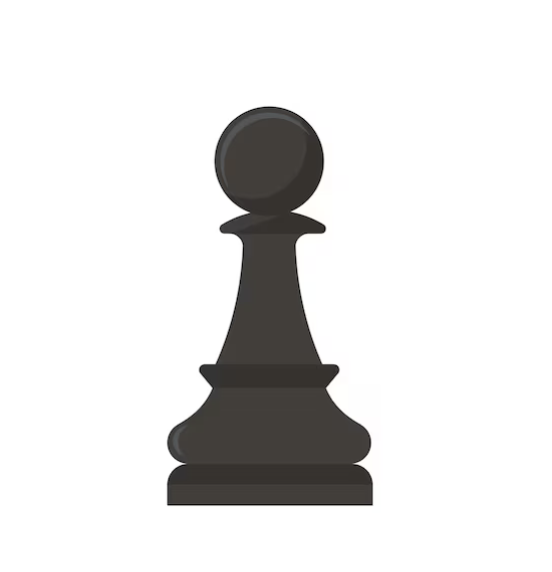
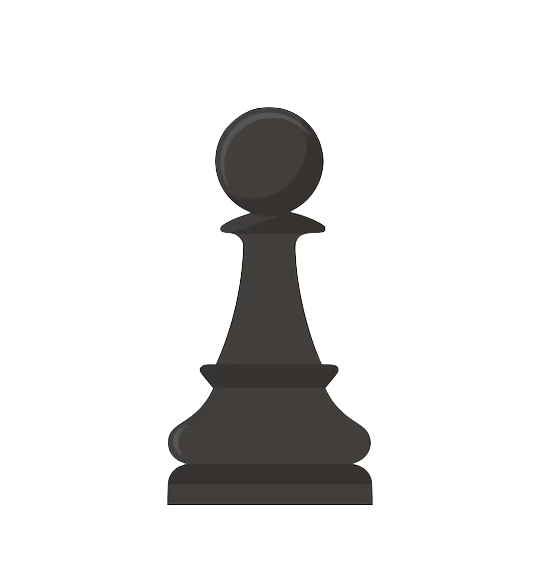
feat: Implementing the close button

diff --git a/ui/dialogs.py b/ui/dialogs.py
@@ -3,7 +3,7 @@ import os
 sys.path.insert(0, os.path.dirname(os.path.dirname(os.path.abspath(__file__))))
 from PyQt5.QtWidgets import QApplication, QMainWindow, QLabel, QWidget, QVBoxLayout, QHBoxLayout, QGridLayout, QPushButton, QDialog, QFrame
 from PyQt5.QtGui import QIcon, QFont, QPixmap
-from PyQt5.QtCore import Qt
+from PyQt5.QtCore import Qt, QSize
 
 
 class MainWindow(QMainWindow):
@@ -33,17 +33,26 @@ class Dialog(QDialog):
         self.setWindowFlags(self.windowFlags() | Qt.FramelessWindowHint)
         self.setAttribute(Qt.WA_TranslucentBackground)
         self.setFixedSize(400, 400)
+        bg_color = '#2b2b2b'
 
         frame = QFrame(self)
         frame.setGeometry(0, 0, 400, 400)
         frame.setStyleSheet('background-color: #1e1e1f; border-radius: 20px;')
 
         self.label_top = QLabel(self)
-        self.label_top.setStyleSheet('background-color: #2b2b2b; border-top-right-radius: 20px; border-top-left-radius: 20px;')
+        self.label_top.setStyleSheet(f'background-color: {bg_color}; border-top-right-radius: 20px; border-top-left-radius: 20px;')
         self.label_top.setGeometry(0, 0, 400, 100)
+        
 
-        self.button_close = QPushButton('ok', self)
-        self.button_close.move(140, 160)
+        self.button_close = QPushButton(self)
+        self.button_close.setGeometry(self.label_top.width() - 40, 0, 40, 40)
+        self.button_close.setStyleSheet(f'background-color: {bg_color}')
+        icon = QIcon(os.path.join(os.path.dirname(os.path.dirname(os.path.abspath(__file__))), 'Images', 'pawn.png'))
+        self.button_close.setIcon(icon)
+        self.button_close.setIconSize(QSize(40, 40))
+
+
+
 
 
 class DialogWin(Dialog):
